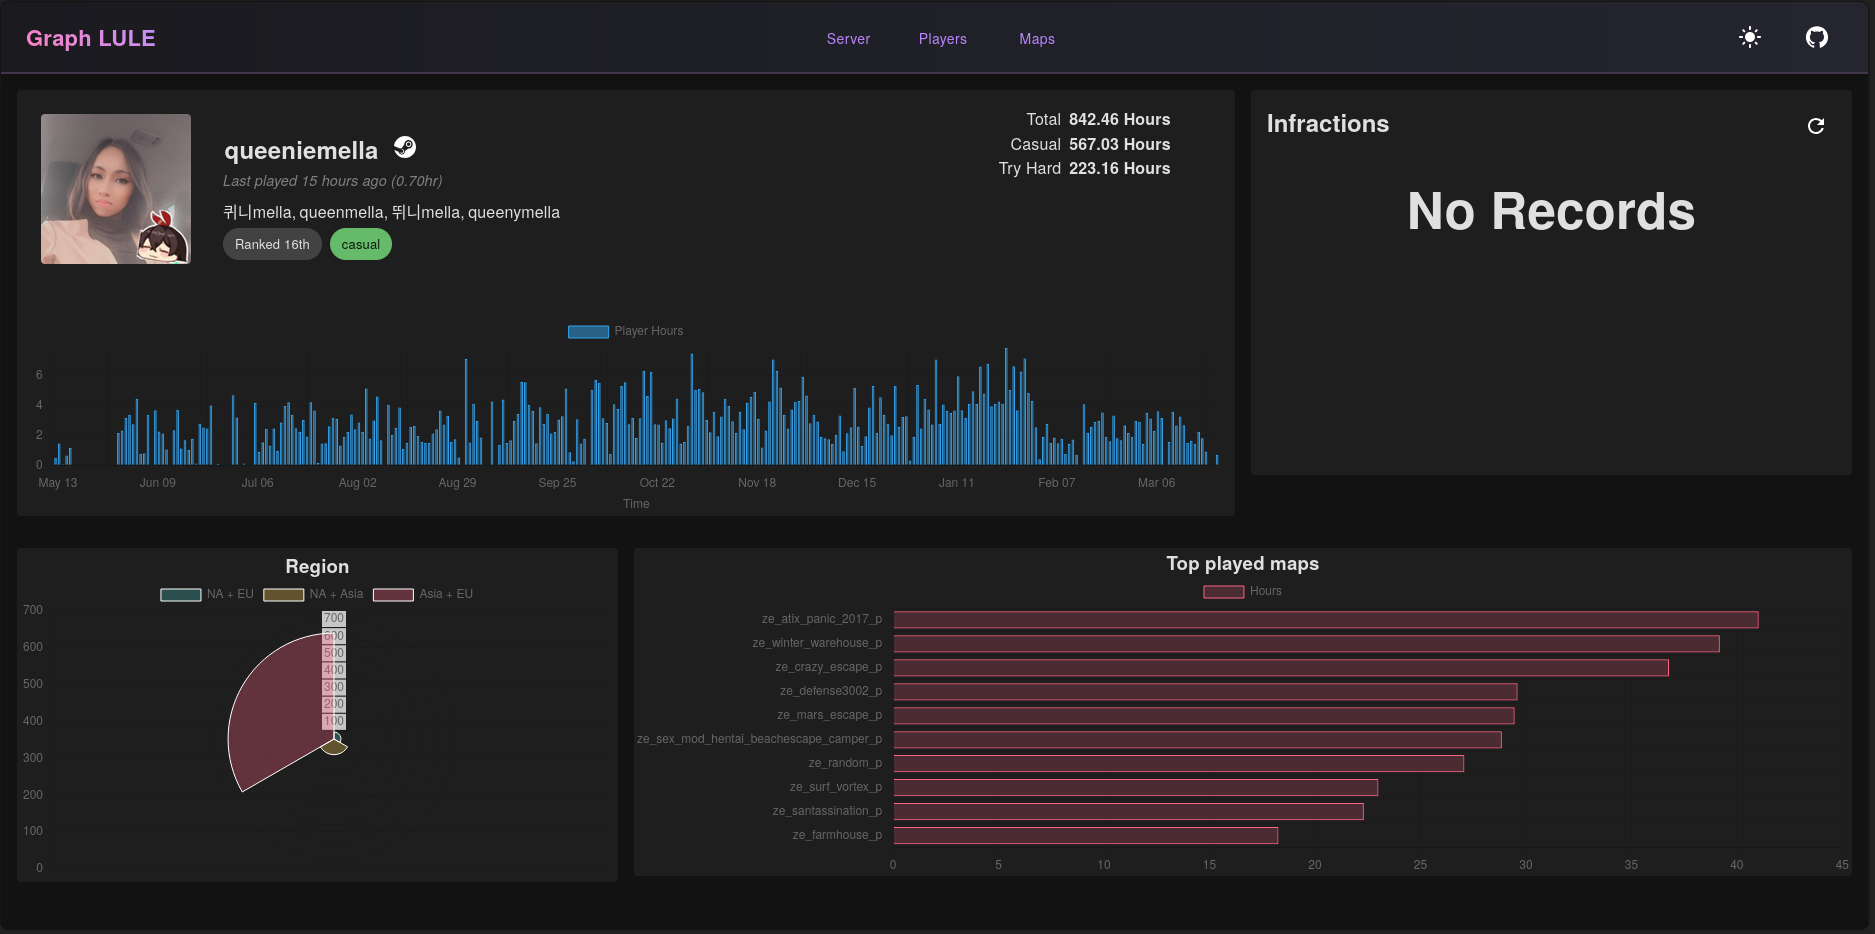
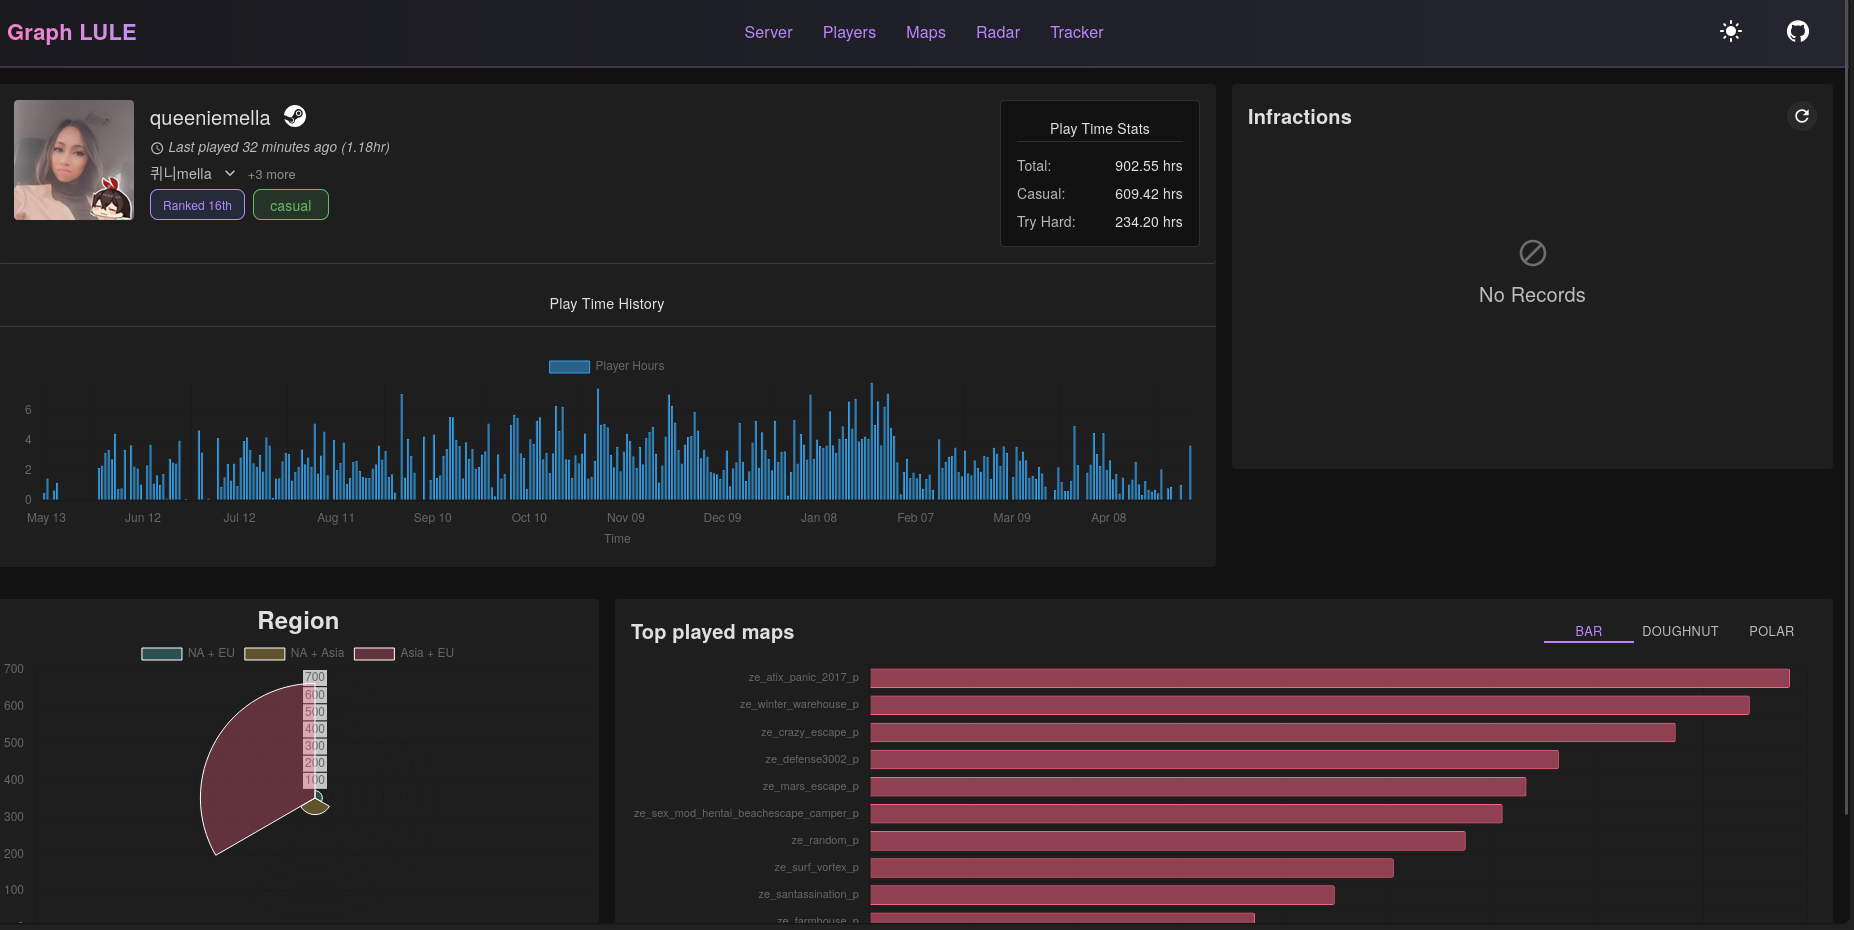
updated docs

diff --git a/README.md b/README.md
@@ -38,3 +38,9 @@ flowchart TD
 ![Maps Page](assets/maps.png)
 
 ![Map Page](assets/map.png)
+
+![Radar Page](assets/radar_overall.png)
+
+![Radar Page2](assets/radar_country.png)
+
+![Tracker Page](assets/tracker.png)
